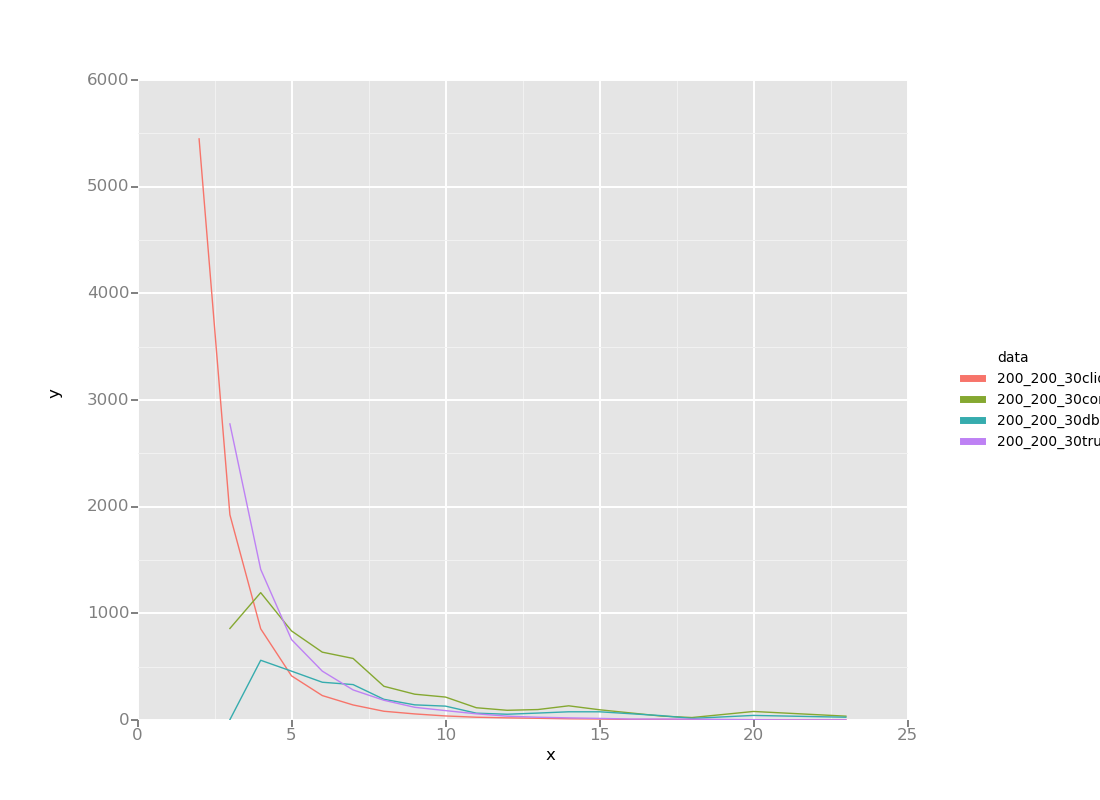
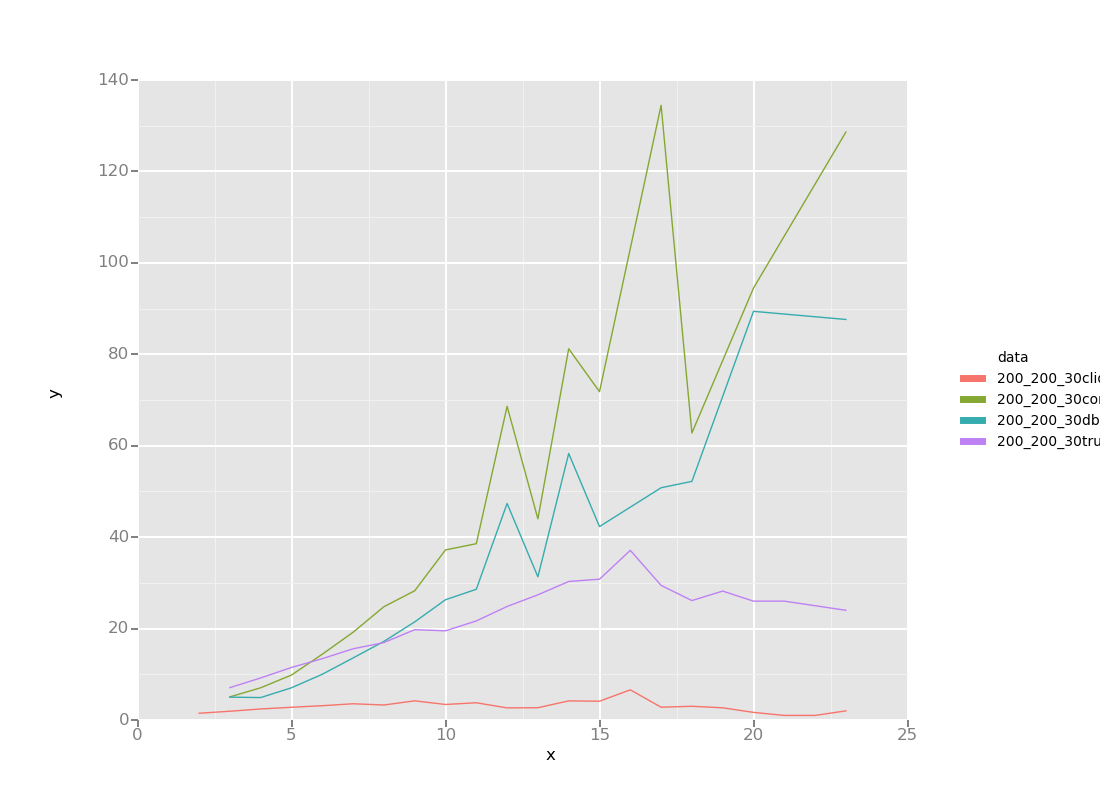
sth

diff --git a/scripts/data_analysis.py b/scripts/data_analysis.py
@@ -155,10 +155,6 @@ class JsonStatsCollections:
                 self.coll[c].smooth_plot(self.coll[c].trussSize,  plt, colors[i], '--', '.', self.coll[c].name+'-truss')
                 self.coll[c].smooth_plot(self.coll[c].coreSize,   plt, colors[i], '-',  'v', self.coll[c].name+'-core')
                 self.coll[c].smooth_plot(self.coll[c].dbscanSize, plt, colors[i], '-',  'o', self.coll[c].name+'-dbscan')
-                #plt.plot(self.coll[c].cliqueSize['x'], self.coll[c].cliqueSize['y'], color=colors[i], linestyle='--', marker=',', label = self.coll[c].name+'-clique')
-                #plt.plot(self.coll[c].trussSize['x'],  self.coll[c].trussSize['y'],  color=colors[i], linestyle='--', marker='.', label = self.coll[c].name+'-truss')
-                #plt.plot(self.coll[c].coreSize['x'],   self.coll[c].coreSize['y'],   color=colors[i], linestyle='-',  marker='v', label = self.coll[c].name+'-core')
-                #plt.plot(self.coll[c].dbscanSize['x'], self.coll[c].dbscanSize['y'], color=colors[i], linestyle='-',  marker='o', label = self.coll[c].name+'-dbscan')
             elif is_freq == True:
                 plt.plot(self.coll[c].clique['x'], self.coll[c].clique['y'], color=colors[i], linestyle='--', marker=',', label = self.coll[c].name+'-clique')
                 plt.plot(self.coll[c].truss['x'],  self.coll[c].truss['y'],  color=colors[i], linestyle='--', marker='.', label = self.coll[c].name+'-truss')
@@ -178,12 +174,36 @@ class JsonStatsCollections:
         i = 0
         for c in self.coll: 
             if is_freq == False:
-                d = self.transformDataGgPlot(c)
-                p = ggplot(aes(x='x', y='y', colour='data'), data = d) + geom_line();
-                print ofname
-                p.save(ofname)
+                d = self.transformDataGgPlotSize(c)
+            elif is_freq == True:
+                d = self.transformDataGgPlotSize(c)
+            p = ggplot(aes(x='x', y='y', colour='data'), data = d) + geom_line();
+        p.save(ofname)
 
 
+
+    def transformDataGgPlotSize(self, c):
+        ret = []
+        item = self.coll[c].trussSize
+        for i in range(0, len(item['x'])):
+            trip = {'data': self.coll[c].name+'truss', 'x': item['x'][i], 'y' : item['y'][i]}
+            ret.append(trip)
+
+        item = self.coll[c].cliqueSize
+        for i in range(0, len(item['x'])):
+            trip = {'data': self.coll[c].name+'clique', 'x': item['x'][i], 'y' : item['y'][i]}
+            ret.append(trip)
+
+        item = self.coll[c].coreSize
+        for i in range(0, len(item['x'])):
+            trip = {'data': self.coll[c].name+'core', 'x': item['x'][i], 'y' : item['y'][i]}
+            ret.append(trip)
+
+        item = self.coll[c].dbscanSize
+        for i in range(0, len(item['x'])):
+            trip = {'data': self.coll[c].name+'dbscan', 'x': item['x'][i], 'y' : item['y'][i]}
+            ret.append(trip)
+        return DataFrame(ret)
 
     def transformDataGgPlot(self, c):
         ret = []
